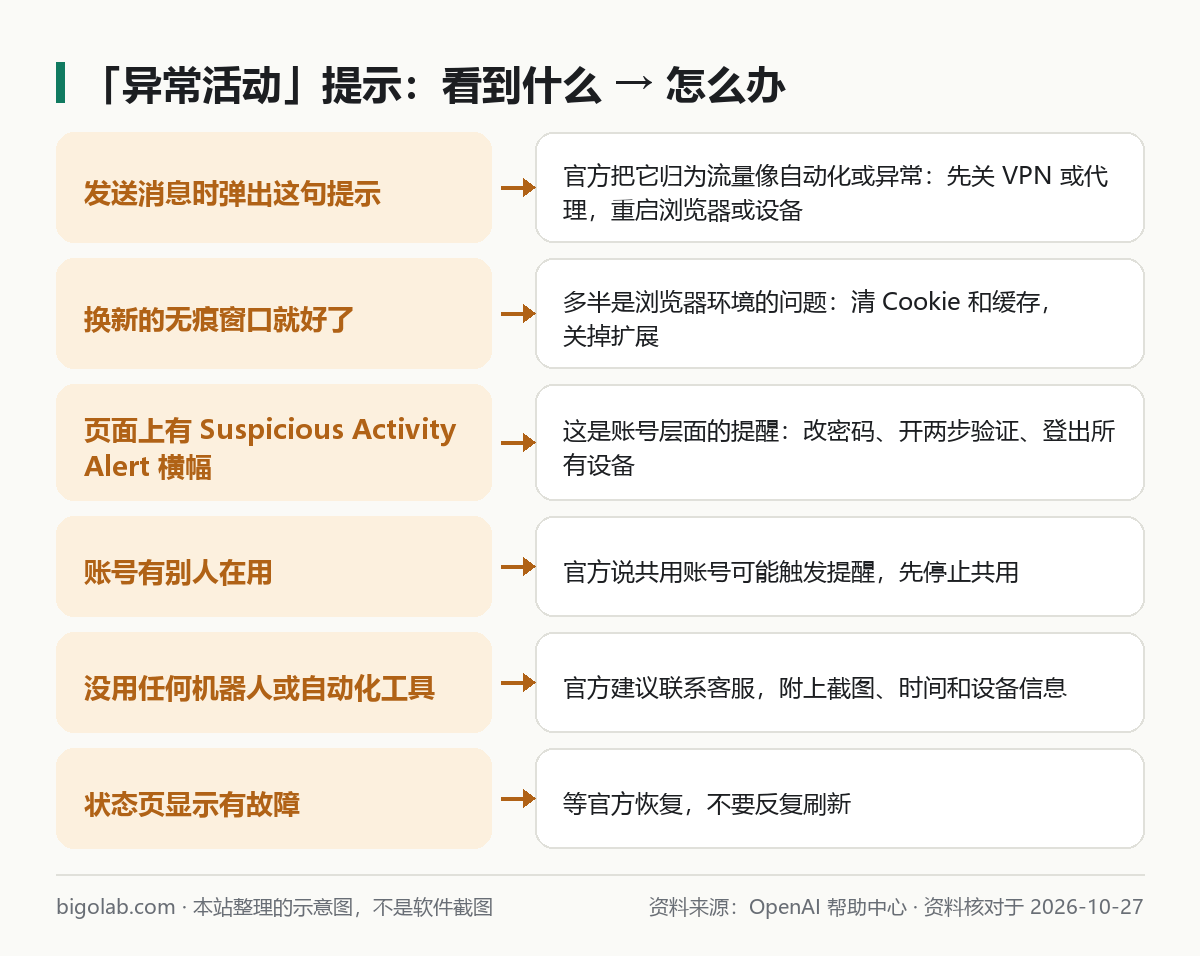
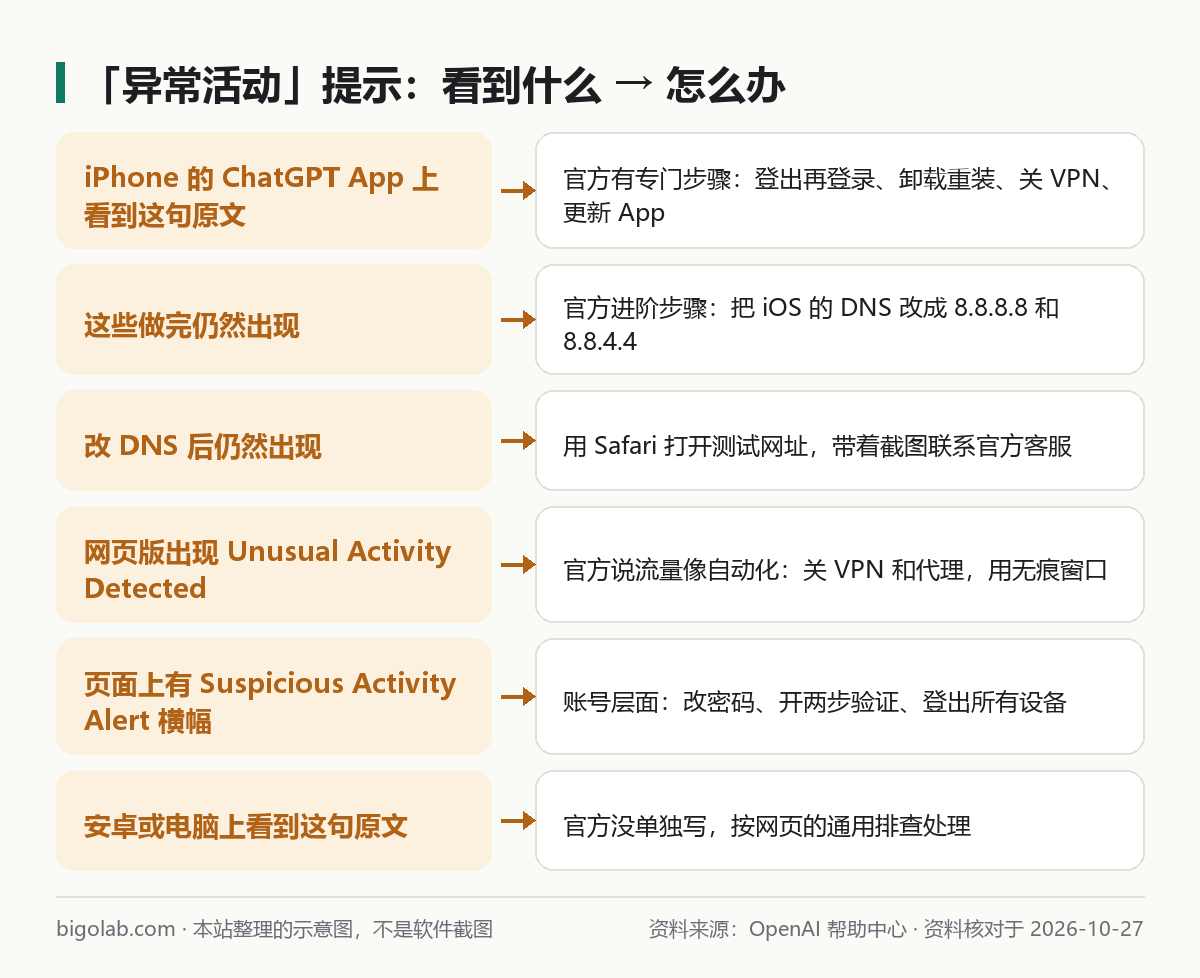
教程：模型已满提示、重写异常活动提示（iOS 官方步骤）、来源登记 e1

diff --git a/docs/内容平台/种子内容/guides/1100-chatgpt-unusual-activity-detected-from-your-device.md b/docs/内容平台/种子内容/guides/1100-chatgpt-unusual-activity-detected-from-your-device.md
@@ -1,116 +1,106 @@
 ---
-title: ChatGPT 提示「Unusual activity has been detected from your device」怎么办：官方的通用排查与账号层面的处理
+title: ChatGPT 提示「Unusual activity has been detected from your device. Try again later」怎么办：iPhone App 的官方排查步骤
 slug: chatgpt-unusual-activity-detected-from-your-device
 products: [chatgpt]
 models: []
 accountTier: FREE
-excerpt: 提示 Unusual activity has been detected from your device？官方没有这句原文的专门说明，但有意思相近的提示和排查步骤。本文按顺序列出官方做法，并区分发消息时的提示与账号层面的可疑活动提醒。
+excerpt: iPhone 上的 ChatGPT 提示 Unusual activity has been detected from your device？官方网络排查文章专门列了这句话：登出重登、卸载重装、关 VPN、更新 App，再不行改 DNS 并带 Safari 截图找客服。本文按官方顺序讲清，并区分网页版的相近提示。
 checkedOn: 2026-10-27
 sources:
+  - https://help.openai.com/en/articles/9247338-network-recommendations-for-chatgpt-errors-on-web-and-apps
   - https://help.openai.com/en/articles/7996703-troubleshooting-chatgpt-error-messages
   - https://help.openai.com/en/articles/10471992-why-am-i-receiving-a-suspicious-activity-alert
 verify:
-  - 官方帮助中心没有收录「Unusual activity has been detected from your device」这句原文；官方文章里列的是「We detect suspicious activity」和「Unusual Activity Detected」，措辞不同，本文说明了这一点
-  - 「官方把这类提示归为流量像自动化或异常」来自官方文章对那两句提示原因的说明，不是对本句原文的确认
-  - 官方文章没有逐条解释每种触发原因，也没有说触发后多久恢复
-  - 可疑活动提醒文章的更新日期页面只显示相对时间
+  - 官方网络排查文章把这句话列在 iOS App 下，并没有说明原因；本文不替官方解释原因
+  - 官方没有给出安卓或电脑端这句原文的专门说明，正文已标明按通用排查处理
+  - DNS 改成 8.8.8.8 和 8.8.4.4 是官方进阶步骤里写的，具体改法随 iOS 版本略有不同，本文不写点击路径
+  - 官方文章页面只显示相对的更新时间，没有准确日期
+  - 网页版的 We detect suspicious activity、Unusual Activity Detected 来自另一篇官方文章，和 iOS 这句措辞不同
 ---
 
-> 本文根据 OpenAI 帮助中心《Troubleshooting ChatGPT Error Messages》《Why am I receiving a ‘Suspicious Activity Alert’?》整理，资料核对于 2026-10-27。**官方没有为「Unusual activity has been detected from your device」这句原文写专门文章，**所以本文写的是官方对相近提示的说明和通用排查，没有的内容不编。配图为本站整理的示意图，不是界面截图。
+> 本文根据 OpenAI 帮助中心《Network recommendations for ChatGPT errors on web and apps》《Troubleshooting ChatGPT Error Messages》《Why am I receiving a ‘Suspicious Activity Alert’?》整理，资料核对于 2026-10-27。官方没有写这句话的原因，本文只写官方明确给出的步骤。配图为本站整理的示意图，不是界面截图。
 
 ## 适用于谁
 
-- 发送消息时，ChatGPT 弹出 **Unusual activity has been detected from your device**（中文大意：已从你的设备检测到异常活动）的人；
-- 看到 **We detect suspicious activity**、**Unusual Activity Detected** 这类相近提示的人；
-- 同时发现某些功能或模型用不了的人。
+- 在 iPhone 的 ChatGPT App 里，看到 **Unusual activity has been detected from your device. Try again later**（中文大意：已从你的设备检测到异常活动，请稍后再试）的人；
+- 在网页版看到 We detect suspicious activity、Unusual Activity Detected 等相近提示的人；
+- 想知道这和「Suspicious Activity Alert」可疑活动提醒是不是一回事的人。
 
 ## 结论先说
 
-1. **官方文章里没有这句原文，但有两条意思相近的**：「We detect suspicious activity」和「Unusual Activity Detected」。官方对它们的说明是：**流量可能看起来像自动化或异常行为**。
-2. **官方的处理顺序**：关闭 **VPN 和代理** → **重启浏览器或设备** → 用**全新的无痕窗口**再试 → 如果有别人在用你的账号，**改密码并保护好邮箱** → 如果你没有使用机器人或自动化，**联系官方客服**。
-3. **和「可疑活动提醒」不是一回事**：账号里出现 **Suspicious Activity Alert** 横幅，是账号层面的预防性提醒，官方建议改密码、开两步验证、登出所有设备，详见 [/guides/chatgpt-suspicious-activity-alert](/guides/chatgpt-suspicious-activity-alert)。
-4. **和别人共用账号可能触发**，官方在可疑活动提醒文章里专门写了这一点。
-5. **先看一眼状态页**：如果官方有故障，等恢复，见 [/guides/chatgpt-down-check-status-page](/guides/chatgpt-down-check-status-page)。
+1. **这句原文官方有专门列出**：在《Network recommendations for ChatGPT errors on web and apps》里，它列在 **iOS App** 下面，原文是「Unusual activity has been detected from your device. Try again later」。官方**没有写原因**。
+2. **官方的通用步骤，按顺序**：① 在 App 里**登出再重新登录**；② **卸载 App 再重新安装**；③ **关闭 VPN**；④ 在 App Store **更新到最新版本**。
+3. **还是不行，官方的进阶步骤**：把 iOS 的 **DNS 改成 8.8.8.8 和 8.8.4.4**；再不行，用 Safari 打开 **https://register.appattest.apple.com/**，把页面的**截图**带给官方客服。
+4. **联系客服时要说明**：上面的步骤都做过，用的是最新版 App，已经改过 DNS，并且能提供那张 Safari 截图。
+5. **网页版和电脑端看到的是另一类提示**：官方对 We detect suspicious activity、Unusual Activity Detected 的说明是流量可能像自动化或异常行为，处理见第三节。
+6. **账号里有 Suspicious Activity Alert 横幅**，是账号层面的预防性提醒，见 [/guides/chatgpt-suspicious-activity-alert](/guides/chatgpt-suspicious-activity-alert)。
 
-![「异常活动」提示：看到什么、对应怎么办的对照表](seed:g1100-unusual-decide.png)
-*图：本站根据 [OpenAI 帮助中心：Troubleshooting ChatGPT Error Messages](https://help.openai.com/en/articles/7996703-troubleshooting-chatgpt-error-messages) 与 [Why am I receiving a ‘Suspicious Activity Alert’?](https://help.openai.com/en/articles/10471992-why-am-i-receiving-a-suspicious-activity-alert) 整理的示意图*
+![「异常活动」提示：iPhone、网页版、账号横幅各自对应的处理](seed:g1100-unusual-decide.png)
+*图：本站根据 [OpenAI 帮助中心：Network recommendations for ChatGPT errors on web and apps](https://help.openai.com/en/articles/9247338-network-recommendations-for-chatgpt-errors-on-web-and-apps) 与 [Troubleshooting ChatGPT Error Messages](https://help.openai.com/en/articles/7996703-troubleshooting-chatgpt-error-messages) 整理的示意图*
 
-## 一、官方怎么说这类提示
+## 一、iPhone App：官方步骤
 
-官方《Troubleshooting ChatGPT Error Messages》把下面两条放在一起：
+### 通用步骤
 
-- **We detect suspicious activity** 和 **Unusual Activity Detected**；
-- 原因：流量**可能类似自动化或异常行为**。
+1. **登出**：在 ChatGPT App 里退出登录，再重新登录；
+2. **重装**：卸载 App，再从 App Store 重新安装；
+3. **关闭 VPN**：官方在这条提示下明确列了这一步；
+4. **更新**：到 App Store 把 ChatGPT 更新到最新版本。
 
-官方给的处理是：
+### 进阶步骤（前面都做了还出现才用）
+
+1. 把 iPhone 的 **DNS 服务器**改成 **8.8.8.8** 和 **8.8.4.4**（官方原文列的是这两个地址）；
+2. 如果仍然报错，在 **Safari** 里打开 **https://register.appattest.apple.com/**，如果页面打不开，把页面上的提示截图，例如「Safari 无法打开该页面，因为地址无效」这类提示；
+3. 带着这张截图，发起一次官方客服对话。
+
+官方还写了：如果以上都做了仍然出现，请提交客服请求，并**说明你做过每一步**：已是最新版 App、已改过 DNS，并可以提供 Safari 的测试截图。联系官方客服的入口见 [/guides/chatgpt-contact-support](/guides/chatgpt-contact-support)。
+
+![iPhone 上的官方排查顺序：登出、重装、关 VPN、更新、改 DNS、Safari 测试](seed:g1100-unusual-steps.png)
+*图：本站根据 [OpenAI 帮助中心：Network recommendations for ChatGPT errors on web and apps](https://help.openai.com/en/articles/9247338-network-recommendations-for-chatgpt-errors-on-web-and-apps) 整理的示意图*
+
+## 二、官方没说的，不要乱猜
+
+- **官方没有写原因**。这句话为什么出现、一般多久恢复，官方文章里都没有；
+- **官方没有说换地区、换网络出口能解决**。本文不介绍绕过地区限制的做法，官方的第一条恰恰是**关 VPN**；
+- **DNS 那一步是进阶步骤**，只在通用步骤做完后使用，改完不管用，可以改回原来的设置；
+- 安卓和电脑端看到这句原文，官方没有单独写，按下一节的通用做法处理。
+
+## 三、网页版和电脑端：相近提示的官方说明
+
+官方《Troubleshooting ChatGPT Error Messages》里有两条相近提示：**We detect suspicious activity** 和 **Unusual Activity Detected**。官方说明：流量可能类似自动化或异常行为。处理顺序是：
 
 1. **关闭 VPN 或代理**；
 2. **重启浏览器或设备**；
-3. 开一个**全新的无痕（private）会话**；
-4. 如果**其他人也能登录你的账号**，**修改密码并保护好你的邮箱**；
-5. **如果你没有使用任何机器人或自动化**，**联系官方客服**。
+3. 开一个**全新的无痕会话**；
+4. 如果有别人能登录你的账号，**改密码并保护好邮箱**；
+5. 如果你没有使用任何机器人或自动化，**联系官方客服**。
 
-你看到的原文是「from your device」这一句，官方文章里没有它。所以更稳的理解是：这是同一类提示，官方的处理思路适用，但官方没有确认这一句原文的具体触发原因。
+网络环境相关的更多排查，比如公司网络、安全软件、WebSocket 被拦截，见 [/guides/chatgpt-network-error](/guides/chatgpt-network-error)；页面一直打不开见 [/guides/chatgpt-cant-open-loading](/guides/chatgpt-cant-open-loading)；通用的「Something went wrong」见 [/guides/chatgpt-something-went-wrong](/guides/chatgpt-something-went-wrong)。
 
-## 二、按顺序做一遍
+## 四、和「可疑活动提醒」的区别
 
-### 1. 先排除网络环境
+账号里出现 **Suspicious Activity Alert** 横幅，是**账号层面**的预防性提醒。官方说它往往只是提醒，不一定表示你有不当行为。官方建议的三步是改密码、开两步验证、登出所有设备，**和别人共用账号可能触发**。详细见 [/guides/chatgpt-suspicious-activity-alert](/guides/chatgpt-suspicious-activity-alert)，开两步验证见 [/guides/chatgpt-account-security-mfa](/guides/chatgpt-account-security-mfa)，共用账号的问题见 [/guides/chatgpt-account-sharing-multiple-devices](/guides/chatgpt-account-sharing-multiple-devices)。
 
-- 关闭 **VPN、代理、Private Relay**（Apple 的隐私中继）。这几样官方都列在需要关闭的项目里；
-- 如果开了某些安全过滤或「网络保护」类软件，也先关掉再试，官方在网络排查文章里有同样的建议；
-- 换一个网络试试，例如从公司网络换到手机热点。公司网络的更多情况见 [/guides/chatgpt-network-error](/guides/chatgpt-network-error)。
+## 五、先看看是不是官方的问题
 
-### 2. 换一个干净的环境
-
-- **重启浏览器或设备**；
-- 打开**新的无痕窗口**，登录后再发一条消息；
-- 如果无痕窗口里正常，说明问题在原来浏览器的 Cookie、缓存或扩展里：清除 Cookie 和缓存，关闭脚本、广告拦截、自动化类扩展；
-- 官方在可疑活动提醒文章里还建议：**排查期间只用一台可信的设备和一个网络**。
-
-### 3. 看账号层面
-
-- 登录页面上有没有 **Suspicious Activity Alert** 横幅？有的话照 [/guides/chatgpt-suspicious-activity-alert](/guides/chatgpt-suspicious-activity-alert) 做：改密码、开两步验证、登出所有设备；
-- 开两步验证的步骤见 [/guides/chatgpt-account-security-mfa](/guides/chatgpt-account-security-mfa)；
-- 同一个账号是不是和别人共用？官方说共用账号可能触发这类提醒，见 [/guides/chatgpt-account-sharing-multiple-devices](/guides/chatgpt-account-sharing-multiple-devices)。
-
-### 4. 不使用自动化，仍然反复出现：联系官方客服
-
-官方建议联系客服时提供：
-
-- 账号对应的**邮箱**；
-- 提示或横幅的**截图**；
-- 第一次看到提示的**时间**，带时区；
-- **设备、浏览器和操作系统**信息；
-- 是否用过 VPN、代理或 Private Relay；
-- 提示里出现的请求、ray 或设备 ID（如果有）。
-
-联系官方客服的入口见 [/guides/chatgpt-contact-support](/guides/chatgpt-contact-support)。
-
-![官方给的排查顺序：关 VPN 与代理、重启、无痕窗口、清缓存、账号保护、联系客服](seed:g1100-unusual-steps.png)
-*图：本站根据 [OpenAI 帮助中心：Troubleshooting ChatGPT Error Messages](https://help.openai.com/en/articles/7996703-troubleshooting-chatgpt-error-messages) 与 [Why am I receiving a ‘Suspicious Activity Alert’?](https://help.openai.com/en/articles/10471992-why-am-i-receiving-a-suspicious-activity-alert) 整理的示意图*
-
-## 三、官方没说的，也不要乱试
-
-- 官方没有写这条提示会持续多久，也没有说触发的具体次数；
-- 官方也没有说「换某个地区的网络就能解决」。本文不介绍任何换地区、绕开地区限制的做法，官方文章里反而是让你**关闭** VPN 和代理；
-- 提示反复出现，同时账号被限制了功能，可能是账号层面的问题，见 [/guides/chatgpt-account-deactivated-appeal](/guides/chatgpt-account-deactivated-appeal)；
-- 相近的通用报错「Something went wrong」见 [/guides/chatgpt-something-went-wrong](/guides/chatgpt-something-went-wrong)，页面一直打不开见 [/guides/chatgpt-cant-open-loading](/guides/chatgpt-cant-open-loading)。
+如果许多人同时报错，可能是官方服务出了问题，先看状态页，见 [/guides/chatgpt-down-check-status-page](/guides/chatgpt-down-check-status-page)。官方有故障时，等恢复，不要反复卸载重装。
 
 ## 常见问题
 
 **Q：这句话是不是说明我的账号被封了？**
-官方没有这样说。官方把相近提示的原因写成流量可能像自动化或异常行为，并且说可疑活动提醒往往只是预防性提示，不一定表示你有不当行为。
+官方没有这样说。官方对相近的账号层面提醒说，它往往只是预防性的，不一定表示你有不当行为。
 
-**Q：我没用任何脚本，为什么也提示？**
-官方文章没有逐条列触发原因。官方建议的做法是先关 VPN 和代理、换干净的会话，仍然出现就联系客服。
+**Q：iPhone 上要改 DNS 吗？**
+只有在登出再登录、重装、关 VPN、更新都做过之后仍然出现，才是官方的进阶步骤。
 
-**Q：关了 VPN 就好了，是什么原因？**
-官方把关闭 VPN 和代理列为首要步骤，原因没有展开。能用时就保持关闭。
+**Q：Safari 那一步是干什么的？**
+官方让你用 Safari 打开一个测试网址，把页面显示的结果截图，交给客服，以便判断网络问题。
 
-**Q：要不要换密码？**
-如果有别人能登录你的账号，官方建议改密码并保护好邮箱；没有的话，也可以按官方可疑活动提醒文章的三步加固。
+**Q：安卓上看到同样的话怎么办？**
+官方没有单独写，可以按网页版的通用步骤：关 VPN 和代理、重启、换网络，仍然不行就联系客服。
 
 ## 参考资料
 
+- OpenAI 帮助中心：Network recommendations for ChatGPT errors on web and apps — https://help.openai.com/en/articles/9247338-network-recommendations-for-chatgpt-errors-on-web-and-apps
 - OpenAI 帮助中心：Troubleshooting ChatGPT Error Messages — https://help.openai.com/en/articles/7996703-troubleshooting-chatgpt-error-messages
 - OpenAI 帮助中心：Why am I receiving a ‘Suspicious Activity Alert’? — https://help.openai.com/en/articles/10471992-why-am-i-receiving-a-suspicious-activity-alert

diff --git a/docs/内容平台/种子内容/guides/1105-chatgpt-selected-model-is-at-capacity.md b/docs/内容平台/种子内容/guides/1105-chatgpt-selected-model-is-at-capacity.md
@@ -1,0 +1,100 @@
+---
+title: ChatGPT 提示「Selected model is at capacity. Please try a different model」怎么办：官方状态页怎么说，换模型与排查顺序
+slug: chatgpt-selected-model-is-at-capacity
+products: [chatgpt]
+models: []
+accountTier: FREE
+excerpt: ChatGPT 提示 Selected model is at capacity？OpenAI 帮助中心没有这句话的专门文章，但官方状态页出现过相关事件，提示本身也建议换模型。本文说明官方有依据的部分、排查顺序，以及哪些官方没说。
+checkedOn: 2026-10-27
+sources:
+  - https://status.openai.com/incidents/01KT204M76EYZYJX7WYG1B2QPH
+  - https://help.openai.com/en/articles/7996703-troubleshooting-chatgpt-error-messages
+  - https://help.openai.com/en/articles/20001354-gpt-6-and-other-models-in-chatgpt
+verify:
+  - 官方帮助中心没有「Selected model is at capacity」这句话的专门文章，本文开头已说明；「容量暂时不够」是根据提示字面和状态页的 Limited capacity 事件做的理解，不是官方对这句话的逐字解释
+  - 状态页 2026-06-01 的事件标题是「Decreased ChatGPT availability for Free users」，更新文字是「Limited capacity is causing ChatGPT availability to be reduced」，它不是这句提示的专门事件
+  - 2026-07-09 那起「多个模型报这句提示」的事件，是从状态页的第三方镜像读到的，没有在官方状态页原页核实，正文已标明
+  - 官方没有写恢复需要多久，正文不写具体分钟数
+  - 页面时间没有标时区
+---
+
+> 本文根据 OpenAI 状态页、帮助中心《Troubleshooting ChatGPT Error Messages》《GPT-6 and other models in ChatGPT》整理，资料核对于 2026-10-27。**官方帮助中心没有为「Selected model is at capacity. Please try a different model」写专门文章，**所以本文只写官方有依据的部分，其余明确标注。配图为本站整理的示意图，不是界面截图。
+
+## 适用于谁
+
+- 在 ChatGPT 里发消息，看到 **Selected model is at capacity. Please try a different model**（中文大意：所选模型当前已满，请换一个模型试试）的人；
+- 在 Codex 里也遇到同样提示的人；
+- 想知道这是自己的问题还是官方的问题的人。
+
+## 结论先说
+
+1. **提示本身就是建议**：原文后半句是「Please try a different model」，也就是请**换一个模型**试试。
+2. **官方没有写这句话的专门说明**，也没有写恢复需要多久。我能核实到的官方依据是**状态页**：官方状态页出现过一起事件，更新文字写的是「Limited capacity is causing ChatGPT availability to be reduced」，意思是容量有限导致可用性下降（2026 年 6 月 1 日，影响 Free 用户的 Conversations 组件，约一个小时后恢复）。这不是这句提示的专门事件，只能说明**容量问题在官方状态页上确实会被当成事件公布**。
+3. **多个模型同时报这句话的情况也出现过**：状态页的第三方镜像记录了 2026 年 7 月 9 日的一起事件，标题是「Users are experiencing elevated errors when selecting models」，更新文字写的是用户收到这句提示，影响多个模型，约 58 分钟后恢复。这条来自镜像，没有在官方状态页原页核实，仅供参考。
+4. **处理顺序**：换一个模型 → 稍等一会儿再回原模型 → 看状态页 → 状态页没事就新开对话、刷新、换浏览器或网络 → 仍然不行联系官方客服。
+5. **这不是账号问题**：提示里没有任何账号受限的字样。账号层面的限制一般有明确提示，见 [/guides/chatgpt-suspicious-activity-alert](/guides/chatgpt-suspicious-activity-alert)。
+
+![「模型已满」提示：看到什么、对应怎么办的对照表](seed:g1105-capacity-decide.png)
+*图：本站根据 [OpenAI 状态页](https://status.openai.com/) 的事件与 [Troubleshooting ChatGPT Error Messages](https://help.openai.com/en/articles/7996703-troubleshooting-chatgpt-error-messages) 整理的示意图*
+
+## 一、先换一个模型
+
+提示让你换模型，就在模型菜单里换一个。你能选哪些，取决于套餐：
+
+- Free 和 Go 用的是 GPT-5.6 Luna，难题选 **Think**；
+- Plus 含 Medium 和 High 档位，不含 Extra High 和 Pro；
+- Pro、Business、Enterprise 含更多档位。
+
+套餐与档位的官方对照见 [/guides/chatgpt-cant-find-new-model-gpt-6-codex](/guides/chatgpt-cant-find-new-model-gpt-6-codex)，怎么选见 [/guides/chatgpt-model-picker-thinking](/guides/chatgpt-model-picker-thinking)。官方在 GPT-6 说明里还写了：达到某个模型的思考额度上限时，ChatGPT 可能继续用另一个可用模型，这是**额度**问题，和本文的**容量**提示不是一回事，额度见 [/guides/chatgpt-usage-limits-check-reset](/guides/chatgpt-usage-limits-check-reset)。
+
+换模型后能发出去，就说明问题出在原来那个模型上，先用别的，**过一阵再切回来**。官方没有写要等多久，本文不编具体时间。
+
+## 二、看看是不是官方的问题
+
+打开 [status.openai.com](https://status.openai.com/)，看 **ChatGPT** 下的 **Conversations** 等组件，Codex 有单独的组件。官方有事件时，每条更新都有时间和进展，怎么读见 [/guides/chatgpt-down-check-status-page](/guides/chatgpt-down-check-status-page)。
+
+- **有事件**：等官方恢复，状态页上会更新进展；
+- **没有事件**：再按下面的通用排查做。
+
+## 三、状态页没事件，只有你报错
+
+官方《Troubleshooting ChatGPT Error Messages》给的通用排查（针对「Something went wrong」「生成回答出错」这类提示，不是专门针对这一句）：
+
+1. **新开一个对话**，再发一次；
+2. **刷新页面**，或重启 App；
+3. **换一个浏览器，或开无痕窗口**，关闭扩展；
+4. **关闭 VPN 和代理**；
+5. **换一个网络**，例如换成手机热点。
+
+其中前几步见 [/guides/chatgpt-something-went-wrong](/guides/chatgpt-something-went-wrong)，网络相关见 [/guides/chatgpt-network-error](/guides/chatgpt-network-error)。
+
+![遇到「模型已满」的处理顺序：换模型、稍等、看状态页、通用排查、联系客服](seed:g1105-capacity-steps.png)
+*图：本站根据 [OpenAI 状态页](https://status.openai.com/) 与 [Troubleshooting ChatGPT Error Messages](https://help.openai.com/en/articles/7996703-troubleshooting-chatgpt-error-messages) 整理的示意图*
+
+## 四、联系官方客服
+
+反复出现、而且状态页上没有对应事件时，联系官方客服，见 [/guides/chatgpt-contact-support](/guides/chatgpt-contact-support)。官方在其他排查文章里建议附上：账号邮箱、报错的截图、第一次出现的时间（带时区）、设备和浏览器信息。在 Codex 里遇到，也一样说明是在 Codex 里。
+
+## 五、官方没说的，别当成结论
+
+- **为什么偏偏是我**：官方没有说明哪些用户更容易遇到，也没有说和套餐的关系。状态页里确实有一起事件写明影响 Free 用户，但这不代表付费用户不会遇到；
+- **要等多久**：官方没有给时间；
+- **能不能靠换账号、换地区解决**：官方没有这样说，本文也不介绍任何绕开限制的做法；
+- 想要更宽裕的使用，可以看 [/chongzhi/chatgpt-plus](/chongzhi/chatgpt-plus)，但套餐不能保证不遇到容量提示。
+
+## 常见问题
+
+**Q：这是不是我的额度用完了？**
+不是。额度用完的提示一般会写明已达上限和重置时间，见 [/guides/chatgpt-too-many-requests-limit](/guides/chatgpt-too-many-requests-limit)。这句提示说的是所选模型当前容量不够。
+
+**Q：为什么换了模型也不行？**
+可能多个模型同时受影响，先看状态页；没有事件的话，按第三节通用排查。
+
+**Q：官方有这句话的说明吗？**
+帮助中心没有专门文章。状态页上有容量相关的事件，提示本身也让你换模型。
+
+## 参考资料
+
+- OpenAI 状态页事件（2026-06-01，Limited capacity）— https://status.openai.com/incidents/01KT204M76EYZYJX7WYG1B2QPH
+- OpenAI 帮助中心：Troubleshooting ChatGPT Error Messages — https://help.openai.com/en/articles/7996703-troubleshooting-chatgpt-error-messages
+- OpenAI 帮助中心：GPT-6 and other models in ChatGPT — https://help.openai.com/en/articles/20001354-gpt-6-and-other-models-in-chatgpt

diff --git a/docs/内容平台/种子内容/_来源-e1.md b/docs/内容平台/种子内容/_来源-e1.md
@@ -1,0 +1,29 @@
+# 来源登记 · e1（ChatGPT 报错与「不见了」，甲线，编号 1100–1149 中的一部分）
+
+> 2026-10-27。事实以 OpenAI 官方页面为准（help.openai.com 经 r.jina.ai 读取、chatgpt.com/pricing、chatgpt.com/download、status.openai.com），正文为自写。每篇 `sources` 列出具体链接，`verify` 列出需要复核的点。配图全部是本站用 make_card.py 自制的示意图（无官方截图），每张都逐张目检。
+
+## 已写
+
+| 编号 | 标题 | 图 | 主要来源 |
+| --- | --- | --- | --- |
+| 1100 | Unusual activity has been detected from your device | 2 | 帮助中心《Network recommendations for ChatGPT errors on web and apps》、《Troubleshooting ChatGPT Error Messages》、《Why am I receiving a Suspicious Activity Alert》 |
+| 1105 | Selected model is at capacity | 2 | status.openai.com 事件、《Troubleshooting ChatGPT Error Messages》；2026-07-09 的事件仅来自状态页第三方镜像 |
+| 1120 | GPT-4o 不见了 | 2 | 帮助中心《Retiring GPT-4o and other ChatGPT models》 |
+| 1121 | 任务（Tasks）不见了 | 2 | 帮助中心《Scheduled tasks in ChatGPT》 |
+| 1124 | ChatGPT Go 选不到 | 2 | 帮助中心《What is ChatGPT Go?》《GPT-6 and other models in ChatGPT》 |
+| 1134 | 记忆功能怎么关闭 | 2 | 帮助中心《Memory in ChatGPT》 |
+| 1135 | 多少钱一个月（官方价格） | 2 | 《What is ChatGPT Plus?》《About ChatGPT Pro tiers》《What is ChatGPT Go?》、chatgpt.com/pricing |
+| 1136 | Plus 免费试用 | 2 | 《ChatGPT Promotional Subscriptions/Free Trial Invites FAQ》 |
+| 1148 | 工作模式（Work）怎么用 | 2 | 《ChatGPT Work and Codex》《Scheduled tasks in ChatGPT》、chatgpt.com/download |
+
+## 跳过
+
+- 1104、1110：已有 855（支持地区）、129 / 900（Mac 的 Network configuration issue）覆盖。
+- 1122、1126、1127–1131、1141–1144、1145–1146、1149：与已有 121、120、866、874、854、814、118、134、1041、818、03 等重复，换角度也没有新的官方事实。
+- 1125：已有 816 完整覆盖 Sora 停用。
+- 1101、1102、1103、1106–1109、1111–1119、1123、1132、1133、1137–1140、1147：本批未写（官方没有逐条说明的报错，或要另外核对官方页面）。
+
+## 来源之间的矛盾
+
+- chatgpt.com/pricing 纯文本没有金额；金额取自帮助中心（Plus 说明文章、Pro 套餐文章）。
+- 帮助中心 Windows 应用文章仍写「付费用户、Windows 10 17763」，与新桌面版说明不一致，本批未采用。
